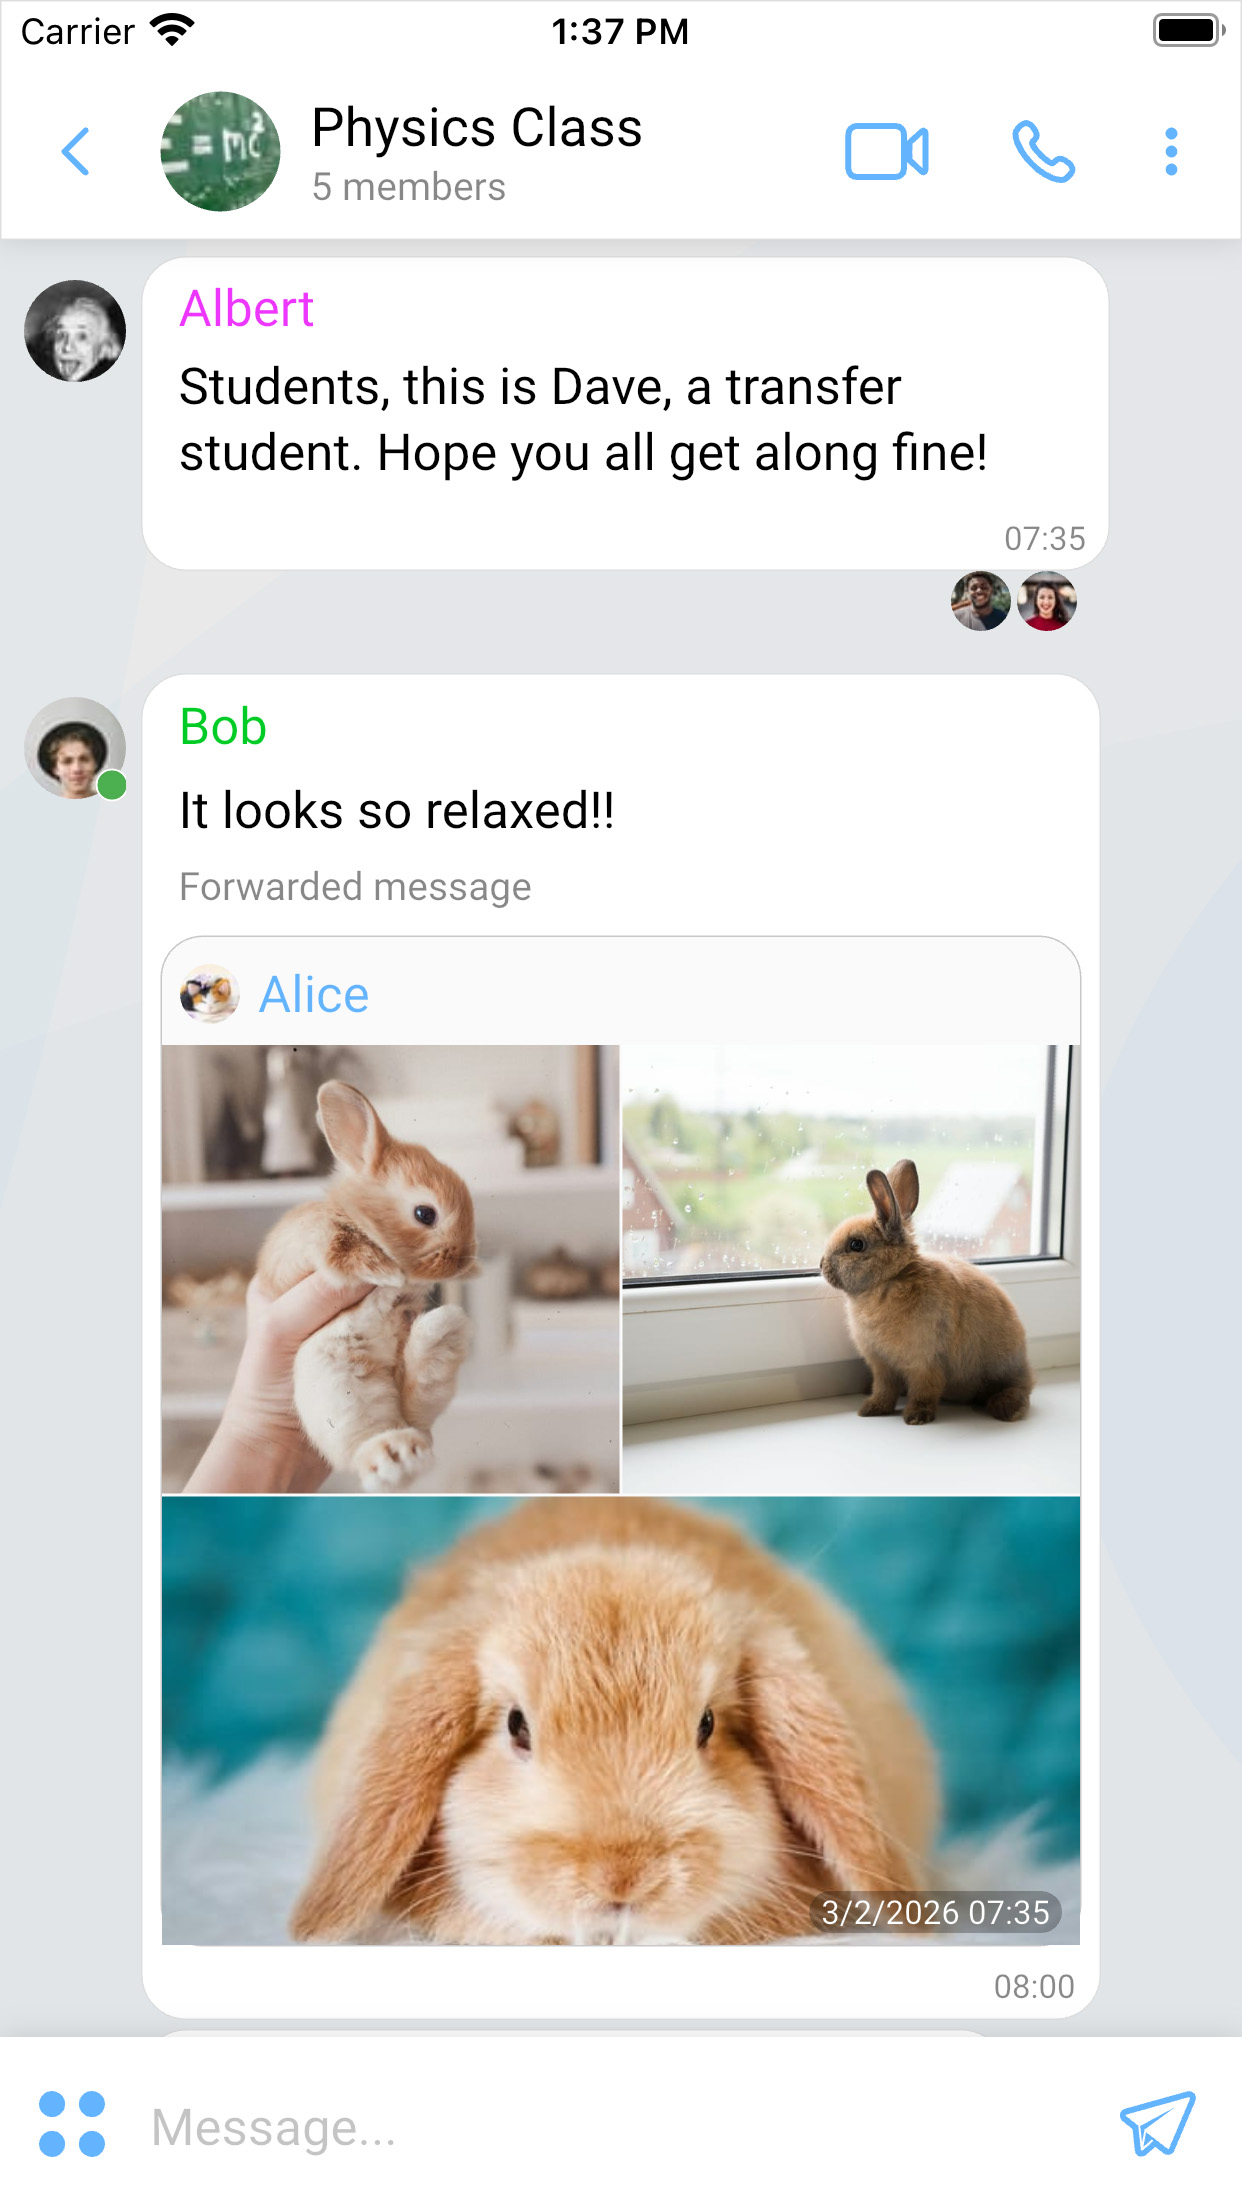
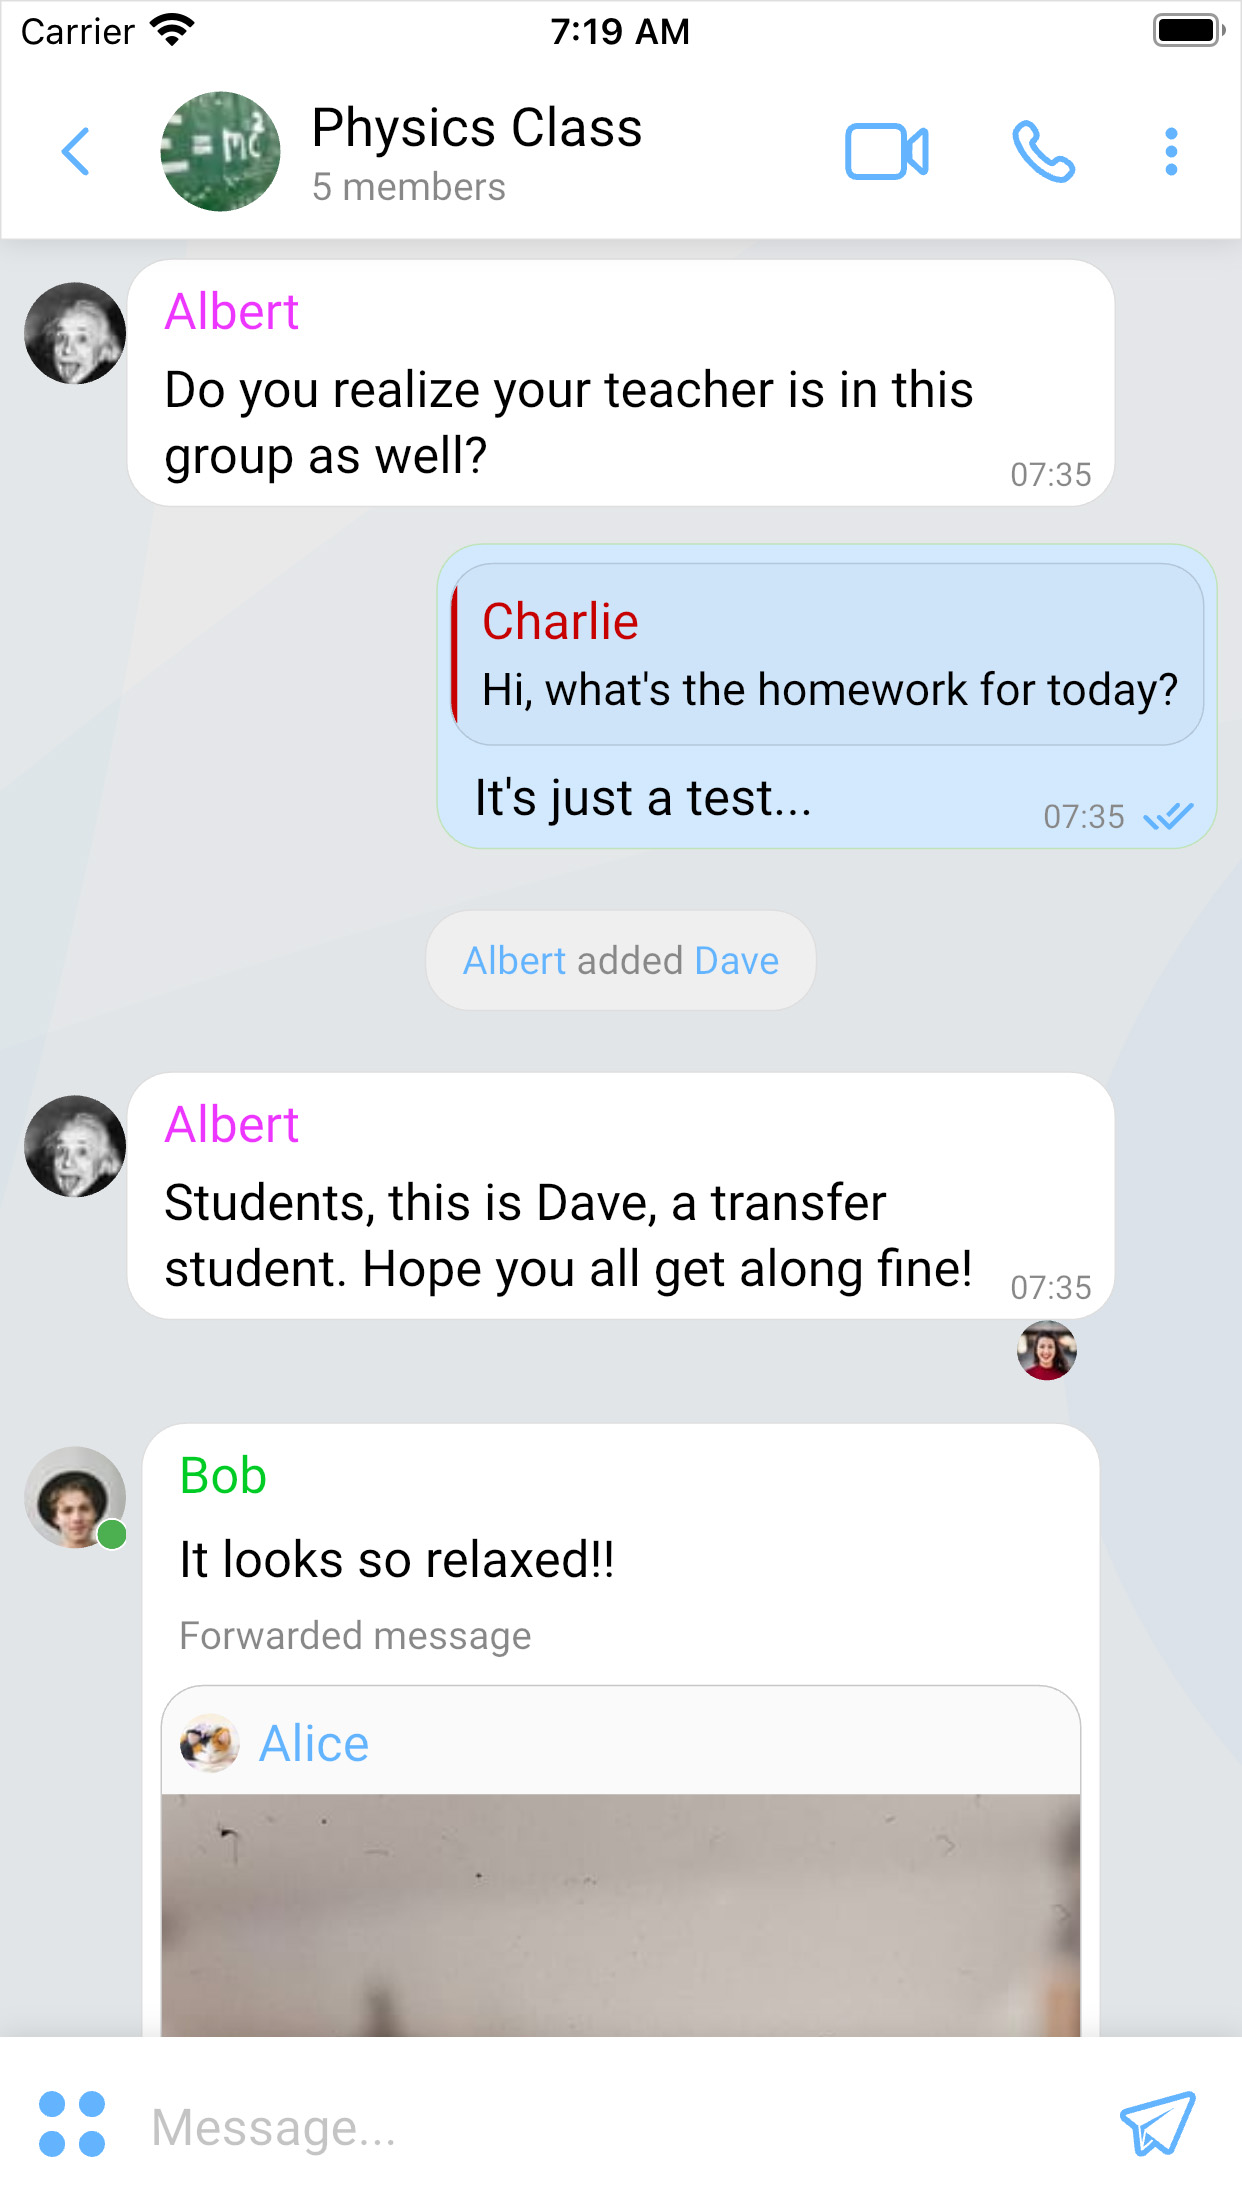
Bootstrap

diff --git a/lib/config.dart b/lib/config.dart
@@ -57,7 +57,7 @@ class Config {
   /// [ChatDirectLink] prefix.
   ///
   /// If empty, then [origin] is used.
-  static String link = '';
+  static String link = 'https://gapopa.com/~';
 
   /// Directory to download files to.
   static String downloads = '';

diff --git a/release_notes/ru-RU.md b/release_notes/ru-RU.md
@@ -1,7 +1,6 @@
-- Добавлено отображение громкости микрофона в модальное окно выбора микрофона.
-- Добавлена горизонтальная прокрутка всего приложения при ширине окна менее 300 пикселей.
-- Обновлён дизайн поиска на вкладке чатов.
-- Обновлено меню выбора прикрепления в чате.
-- Обновлён дизайн некоторых частей медиа плеера на десктоп платформах.
-- Увеличено разрешение исходящей камеры до 960x720.
+- Добавлены блоки "помощь" и "выход" на страницу профиля.
+- Добавлен аватар чату-поддержке.
+- Обновлён дизайн блока ссылок на странице профиля чата.
+- Обновлены дизайны блоков ссылок, кэша и медиа устройств на странице профиля.
+- Обновлено отображение медиа прикреплений в чате в виде колонки вместо сетки.
 - Исправления ошибок и улучшения производительности.

diff --git a/release_notes/es-ES.md b/release_notes/es-ES.md
@@ -1,7 +1,6 @@
-- Se añadió la visualización del volumen de entrada al modal del interruptor del micrófono.
-- Se añadió el desplazamiento horizontal de toda la aplicación cuando la ventana tiene menos de 300 px de ancho.
-- Se rediseñó la búsqueda en la pestaña de chats.
-- Se rediseñó el menú de selección de archivos adjuntos en el chat.
-- Se rediseñaron algunas partes del reproductor multimedia de escritorio.
-- Se aumentó la resolución de la cámara en las llamadas a 960x720.
+- Se agregaron bloques de ayuda y cierre de sesión a la página de perfil.
+- Se agregó un avatar para el chat de soporte.
+- Se actualizó el diseño del bloque de enlaces en la página de perfil del chat.
+- Se actualizaron los bloques de enlaces, caché y dispositivos multimedia en la página de perfil.
+- Se actualizó el diseño de los archivos adjuntos multimedia para que se muestren en columnas en lugar de cuadrícula en el chat.
 - Corrección de errores y mejoras de rendimiento.

diff --git a/release_notes/en-US.md b/release_notes/en-US.md
@@ -1,7 +1,6 @@
-- Added input volume displaying to microphone switch modal.
-- Added horizontal scrolling of whole application when window is less than 300px wide.
-- Redesigned searching on chats tab.
-- Redesigned attachments picker menu in chat.
-- Redesigned some parts of desktop media player.
-- Increased camera resolution in calls to 960x720.
+- Added help and sign out blocks to profile page.
+- Added avatar for support chat.
+- Updated links block design on chat profile page.
+- Updated links, cache and media devices blocks on profile page.
+- Updated media attachments layout to be column instead of grid in chat.
 - Bug fixes and performance improvements.

diff --git a/CHANGELOG.md b/CHANGELOG.md
@@ -6,9 +6,10 @@ All user visible changes to this project will be documented in this file. This p
 
 
 
-## main
+## [0.9.6] · 2026-03-16
+[0.9.6]: /../../tree/v0.9.6
 
-[Diff](/../../compare/v0.9.5...main) | [Milestone](/../../milestone/71)
+[Diff](/../../compare/v0.9.5...v0.9.6) | [Milestone](/../../milestone/71)
 
 ### Added
 
